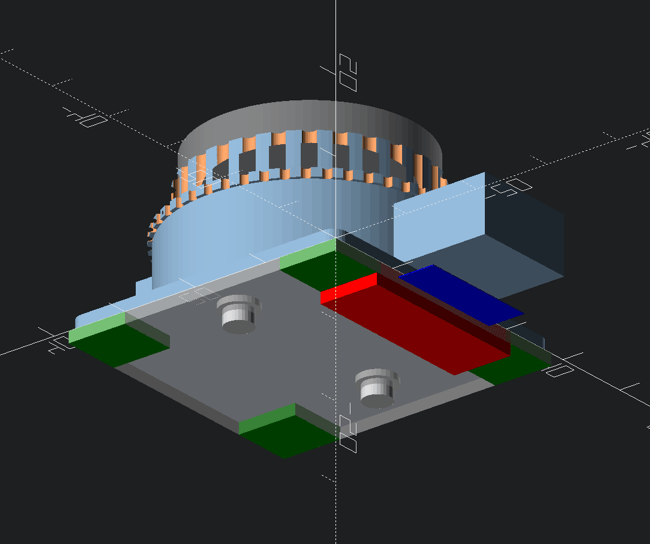
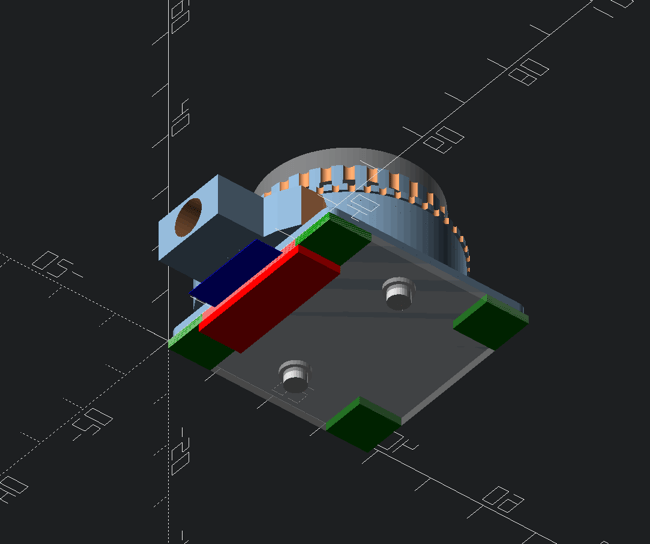
update model images

diff --git a/raspi_cam_hq_models/README.md b/raspi_cam_hq_models/README.md
@@ -23,7 +23,10 @@ TODO:
 
 <!-- markdown-toc end -->
 
+![Front-side model designed in OpenSCAD](img/piHQcam_frontside_model.png)
+
 ![Back-side model designed in OpenSCAD](img/piHQcam_backside_model.png)
+
 
 Raspberry Pi HQ Camera
 ======================
